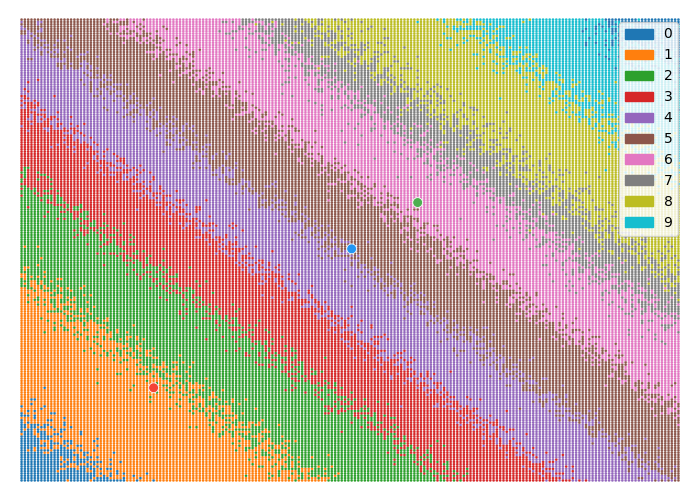
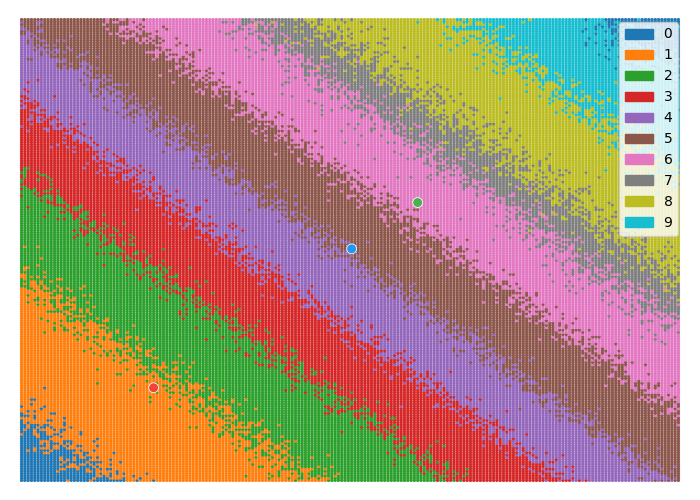
Increase dot size

diff --git a/main.py b/main.py
@@ -91,7 +91,7 @@ def plot_seats(df_for_party, palette, axes):
         y='y',
         hue='seats_for_party',
         palette=palette,
-        s=3,
+        s=5,
         edgecolor=None,
         legend=None,
         ax=axes[0]
